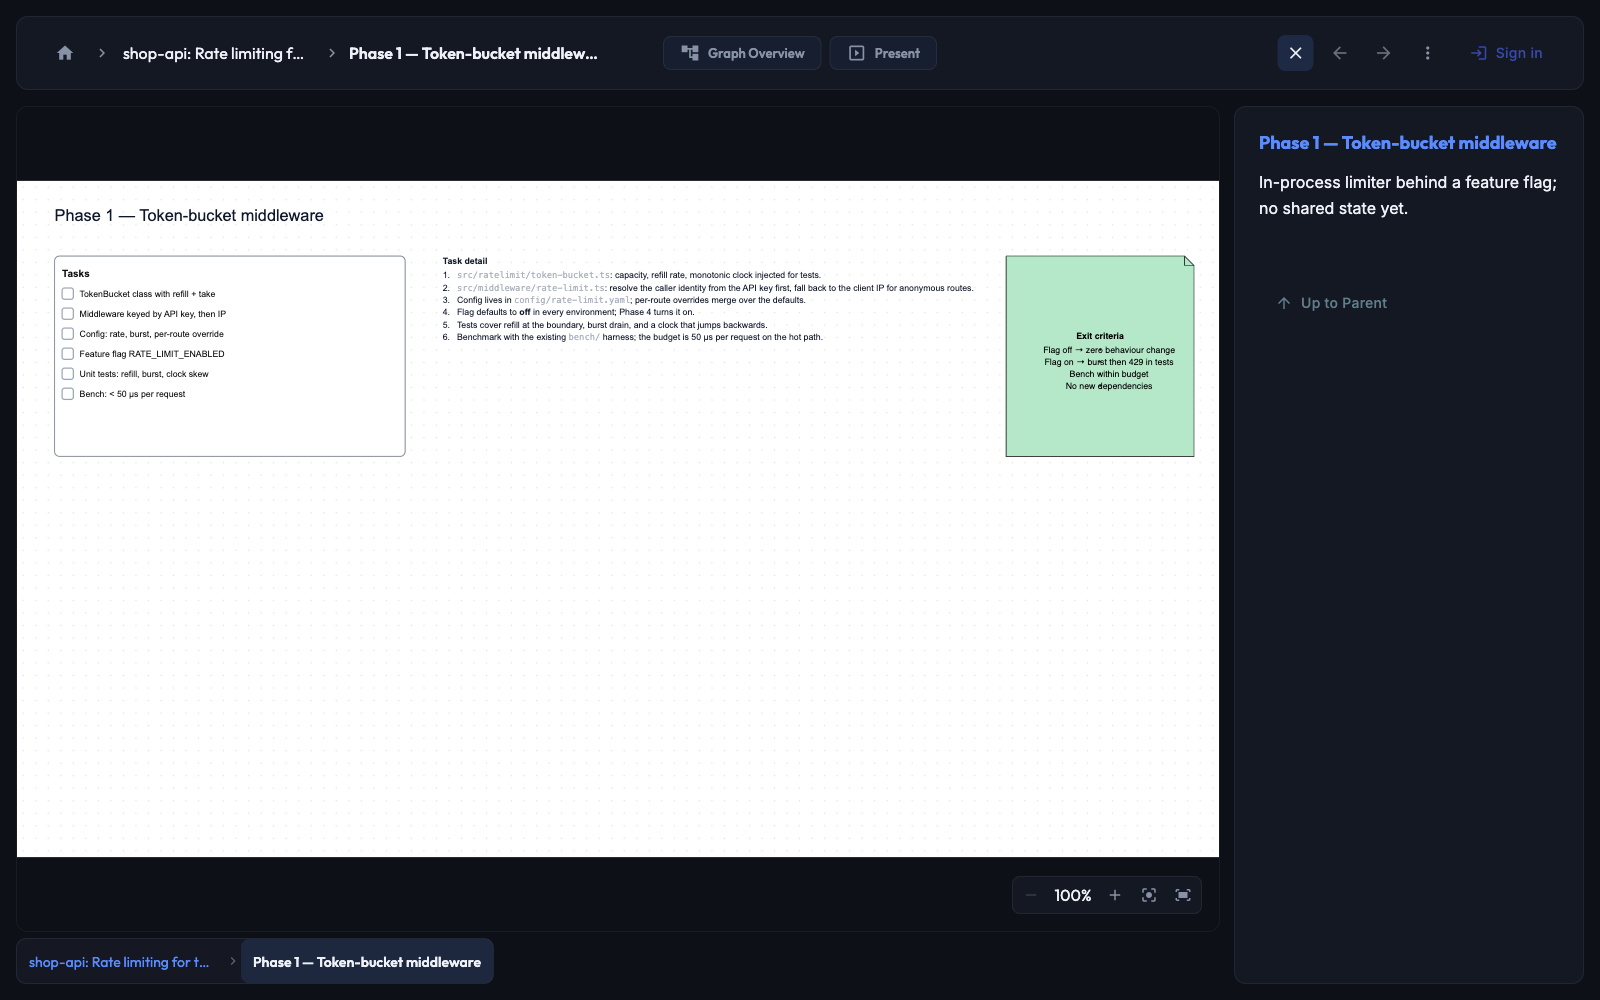
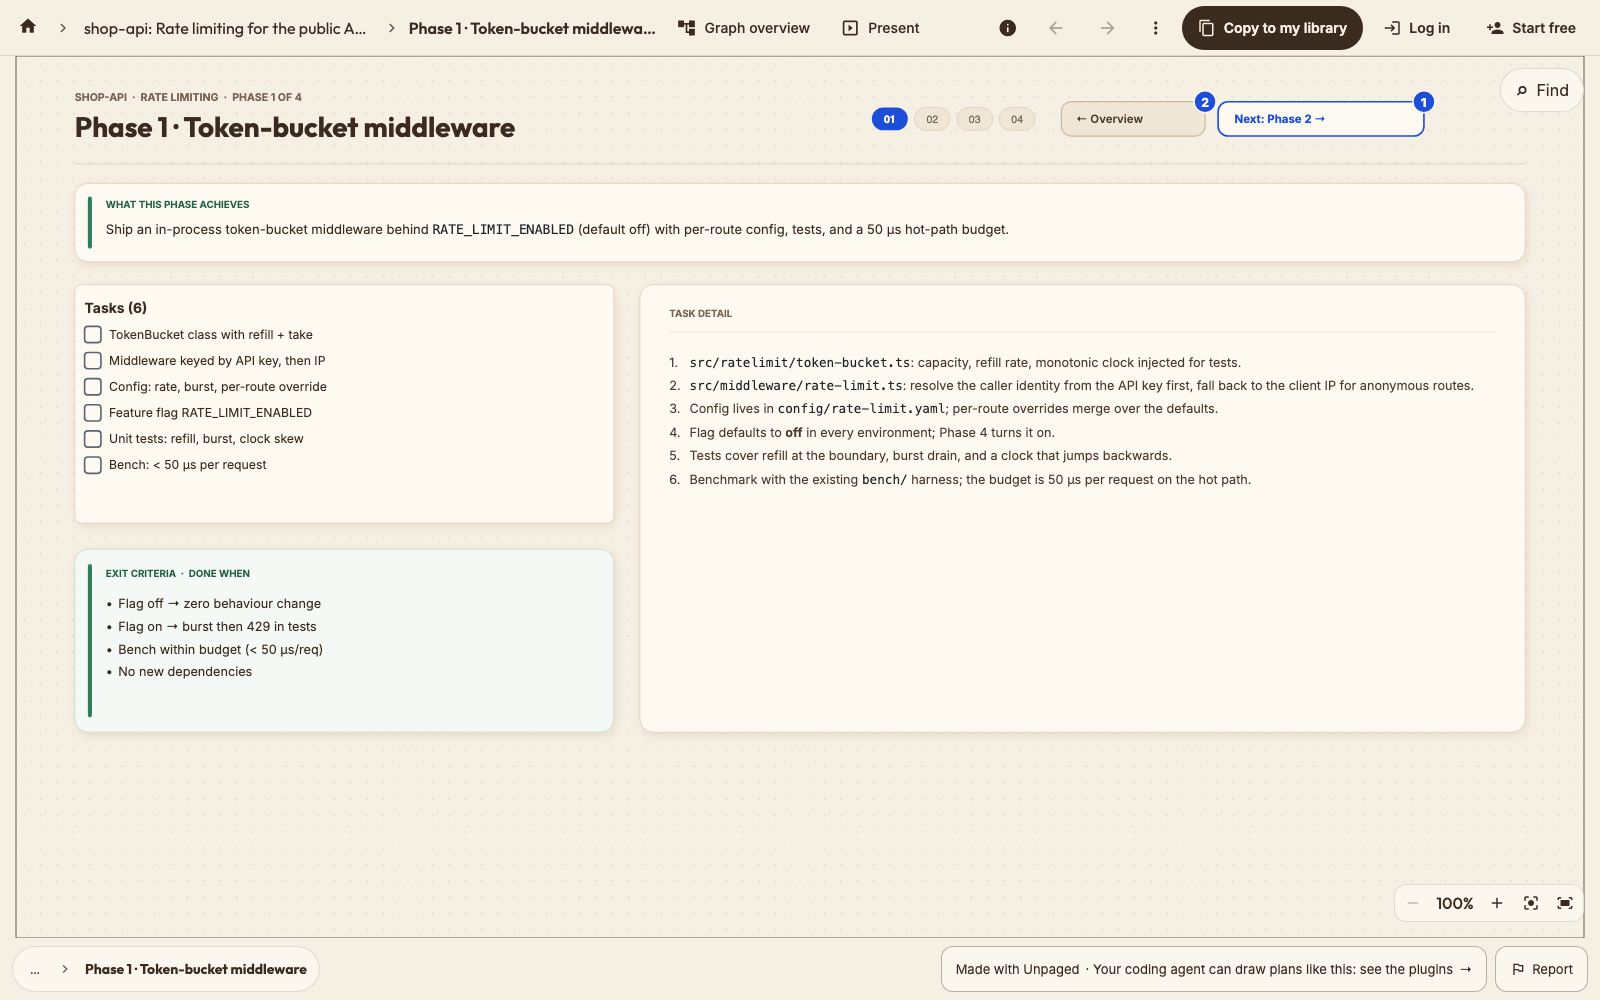
docs: update README screenshots to Warm Paper and fix Marketplace form link

diff --git a/plugins/unpaged/README.md b/plugins/unpaged/README.md
@@ -2,7 +2,7 @@
 
 See the plan before the code. `/unpaged:visual-plan` renders the plan your agent just made in Claude Code or GitHub Copilot as a whiteboard on [Unpaged](https://unpaged.io): goal and outcome cards up front, phases as connected clickable cards, tasks as checklists, risks on structured cards — one link, zero setup. After the code, `/unpaged:as-built` writes the record of what shipped and why, nested under the plan. And `/unpaged:architecture` draws the repository's architecture from its code and keeps it in step: when you ask, the agent checks whether the document still holds (in Claude Code, a line above the prompt shows its status and has the button that starts the check).
 
-![A plan rendered as a canvas: four phase boxes joined by arrows, a goal note and a risks note](../../docs/images/visual-plan-overview.png)
+![A plan rendered as a Warm Paper canvas: what it is about and what it wants to achieve above four connected clickable phase cards, risks, out-of-scope card, and Decision log dock](../../docs/images/visual-plan-overview.png)
 
 ![Demo: on the plan canvas, a right-click on the open-question note adds an @agent comment; the reply lands in the thread, a new task appears in the checklist beside it, and the status stamp flips to EXECUTING](https://github.com/unpaged/plugins/releases/download/v0.5.1/visual-plan-demo.gif)
 
@@ -28,7 +28,7 @@ The demo above was recorded with an earlier transport; current delivery uses the
 
 Each phase box opens into its own canvas: the checklist, the task detail, and the exit criteria.
 
-![A phase canvas: a task checklist, numbered task detail, and an exit-criteria note](../../docs/images/visual-plan-phase.png)
+![A Warm Paper phase canvas: top walking pills, phase outcome banner, task checklist, numbered task detail card, and exit criteria card](../../docs/images/visual-plan-phase.png)
 
 Live example: [shop-api: Rate limiting for the public API](https://unpaged.io/share/f93886b9-50cc-4815-9577-271501f816d6) — a sample plan rendered by the plugin, open to anyone.
 

diff --git a/plugins/unpaged-antigravity/README.md b/plugins/unpaged-antigravity/README.md
@@ -2,7 +2,7 @@
 
 See the plan before the code. The `visual-plan` skill renders the plan Antigravity just made as an interactive whiteboard canvas on [Unpaged](https://unpaged.io): goal and outcome cards up front, phases as connected clickable cards, tasks as checklists, risks on structured cards — one link, zero setup. After the code is written, `as-built` compiles the record of what shipped and why, nested under the plan canvas.
 
-![A plan rendered as a canvas: four phase boxes joined by arrows, a goal note and a risks note](../../docs/images/visual-plan-overview.png)
+![A plan rendered as a Warm Paper canvas: what it is about and what it wants to achieve above four connected clickable phase cards, risks, out-of-scope card, and Decision log dock](../../docs/images/visual-plan-overview.png)
 
 ## What you get
 

diff --git a/docs/antigravity-marketplace-submission.md b/docs/antigravity-marketplace-submission.md
@@ -1,6 +1,6 @@
 # Antigravity Plugin Marketplace submission pack
 
-Reference answers for submitting `plugins/unpaged-antigravity` to the Google Antigravity Plugin Marketplace (submission form linked from https://antigravity.google/docs/marketplace and https://antigravity.google/docs/build-plugins). Keep this file free of credentials: any reviewer test account is provided only in the submission form.
+Reference answers for submitting `plugins/unpaged-antigravity` to the Google Antigravity Plugin Marketplace via the [Antigravity Marketplace partner intake form](https://forms.gle/2EX5RFYPoJe1UgxR9) (linked from https://antigravity.google/docs/build-plugins#publish-to-the-antigravity-marketplace). Keep this file free of credentials: any reviewer test account is provided only in the submission form.
 
 ## Identity
 
